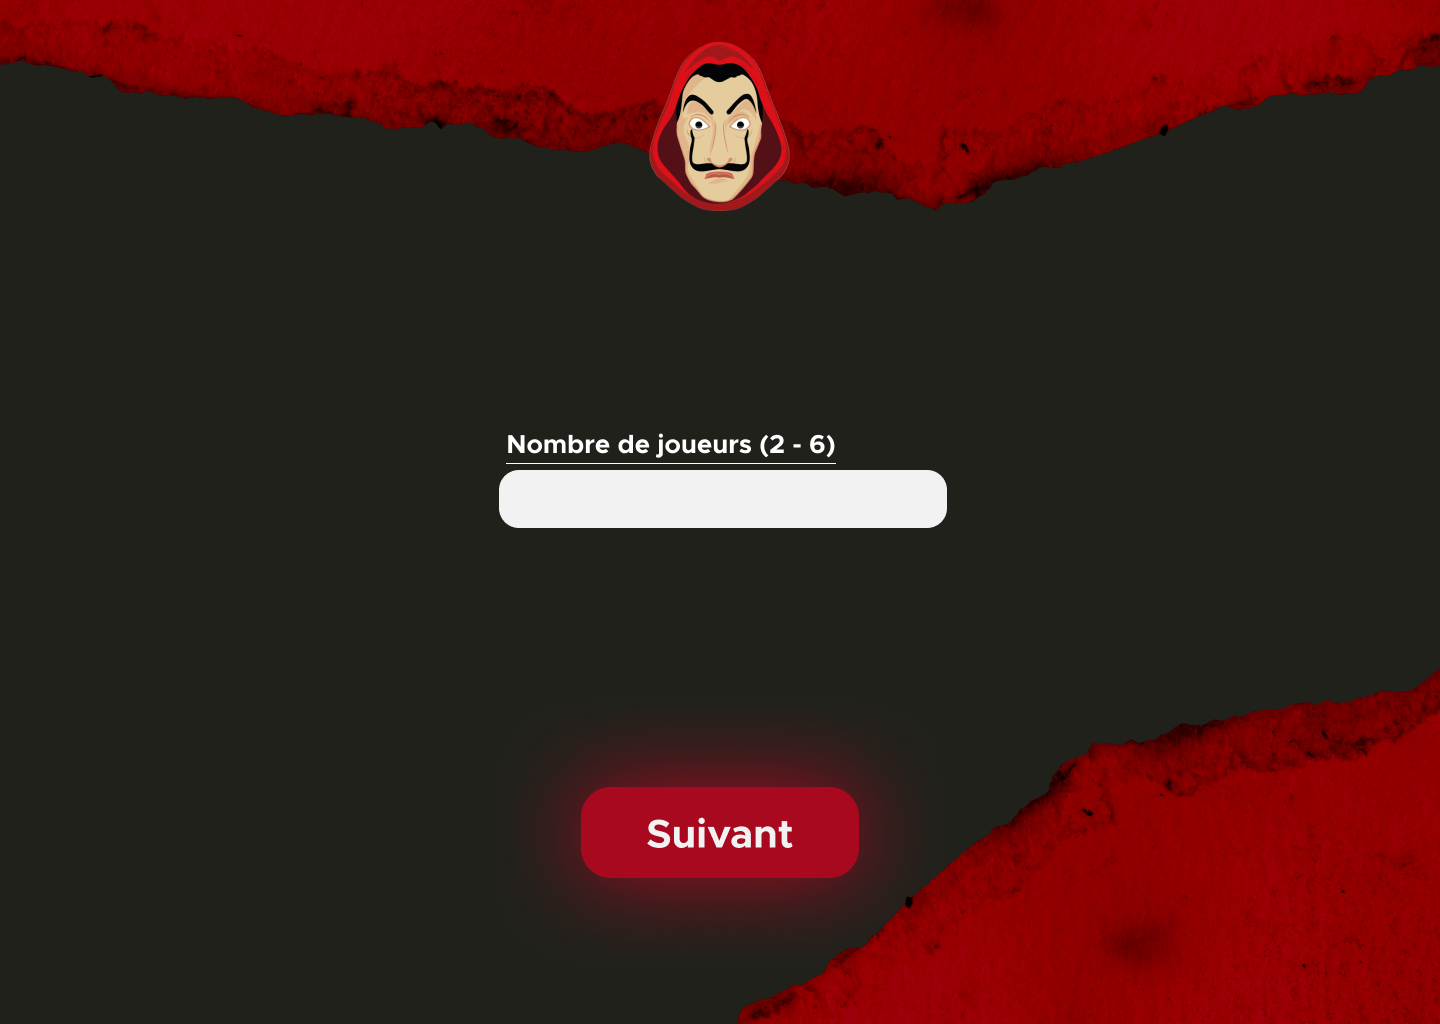
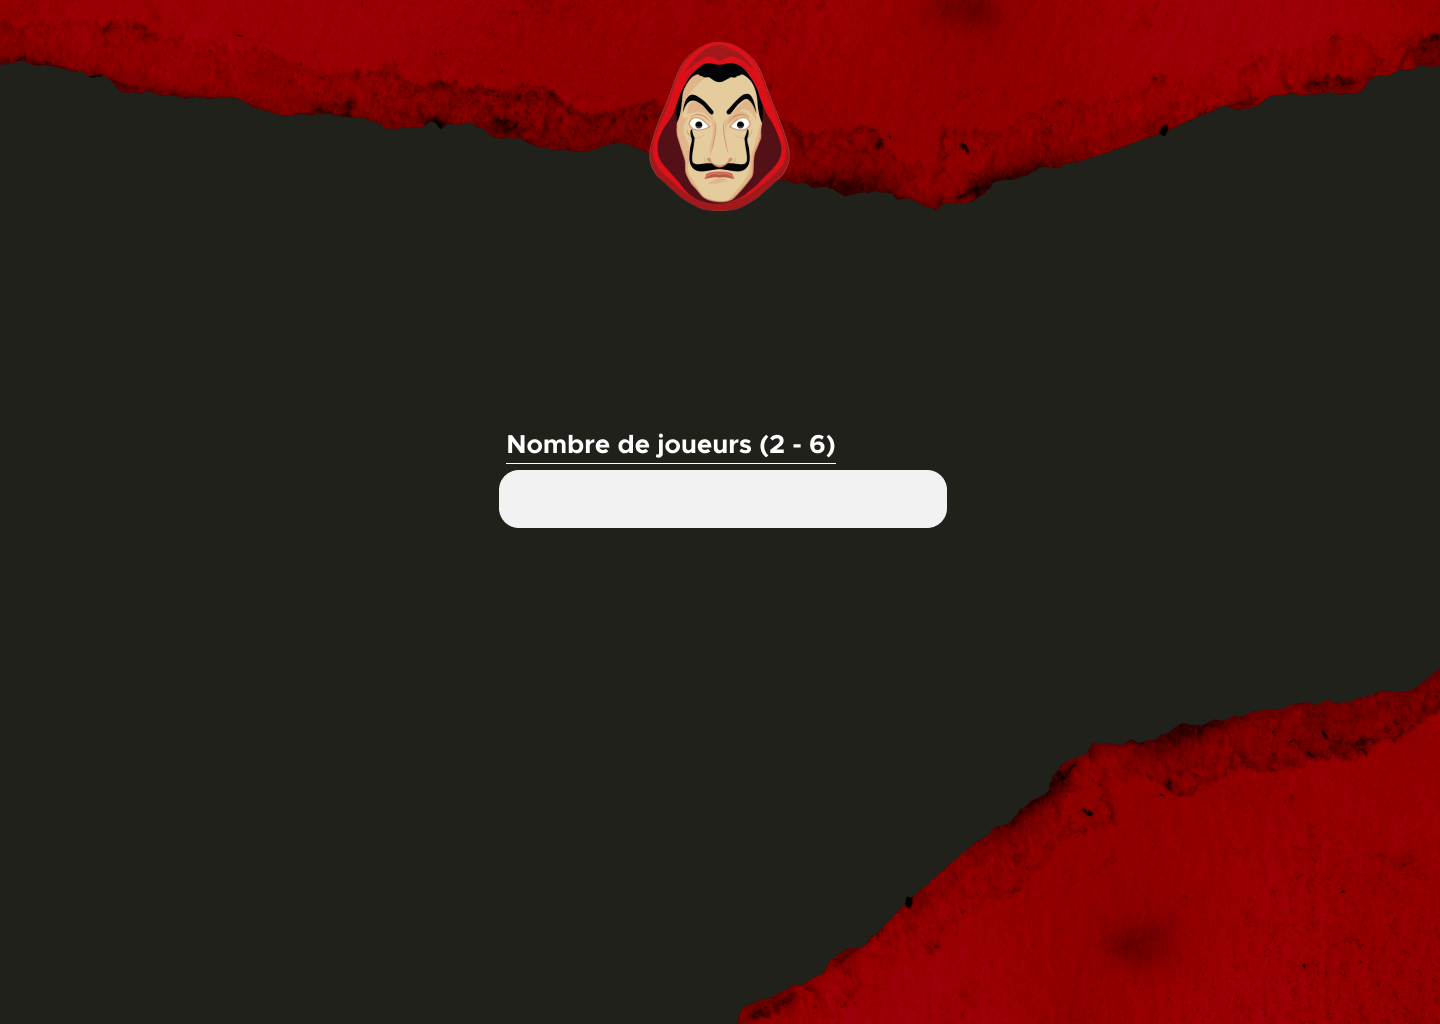
Test  mais ca marche pas

Changed region(s): [[0.375, 0.7188, 0.625, 0.9062]]

diff --git a/main.py b/main.py
@@ -2,6 +2,15 @@ import threading
 from Partie import *
 from ursina import *
 
+class InputForm(Entity):
+    def __init__(self, **kwargs):
+        super().__init__(parent=camera.ui, scale=0.1, **kwargs)
+        self.input_field = InputField(parent=self, scale=Vec2(1, 0.5))
+
+    def input(self, key):
+        if key == 'enter':
+            print("Entered text:", self.input_field.text)
+
 class Accueil(Entity):
     def __init__(self):
         super().__init__()
@@ -19,29 +28,35 @@ class Accueil(Entity):
             color=color.red,
             scale=(.4, .1),
             position=(0, -.3),
-            text='Jouer',  # Texte à afficher à l'intérieur du bouton
-            text_origin=(0, 0),  # Position du texte (centre du bouton)
-            text_color=color.white,  # Couleur du texte
+            text='Jouer',
+            text_origin=(0, 0),
+            text_color=color.white,
             text_font='font/test.otf',
             text_size=100,
             on_click=self.switch_nbrJoueur
         )
 
     def switch_nbrJoueur(self):
-        self.enabled = False  # Supprimer l'entité "Accueil" et tous ses enfants
+        self.enabled = False
         self.button.enabled = False
-        # Initialiser la scène "NbrJoueur"
         scene = NbrJoueur()
 
 class NbrJoueur(Entity):
     def __init__(self):
         super().__init__()
+
+        screen_width, screen_height = window.size
+
         self.image = Entity(
             parent=camera.ui,
             model='quad',
             texture='ressource/image/nbrJoueur.png', 
-            scale=(1.6, 0.9)
+            scale=(1.6, 0.9),
+            position=(0, screen_height / 4),
+            render_queue=1  # Set a lower render order to render first (background)
         )
+
+        self.input_form = InputForm(position=(0, 0), render_queue=2)  # Set a higher render order to render last (foreground)
 
         self.button = Button(
             parent=camera.ui,
@@ -49,13 +64,14 @@ class NbrJoueur(Entity):
             texture='white_cube',
             color=color.red,
             scale=(.4, .1),
-            position=(0, -.3),
-            text='Test',  # Texte à afficher à l'intérieur du bouton
-            text_origin=(0, 0),  # Position du texte (centre du bouton)
-            text_color=color.white,  # Couleur du texte
+            position=(0, -screen_height / 4),
+            text='Test',
+            text_origin=(0, 0),
+            text_color=color.white,
             text_font='font/test.otf',
             text_size=100,
-            on_click=self.start_game
+            on_click=self.start_game,
+            render_queue=2  # Set the same render order as the input form
         )
 
     # Fonction pour démarrer le jeu
